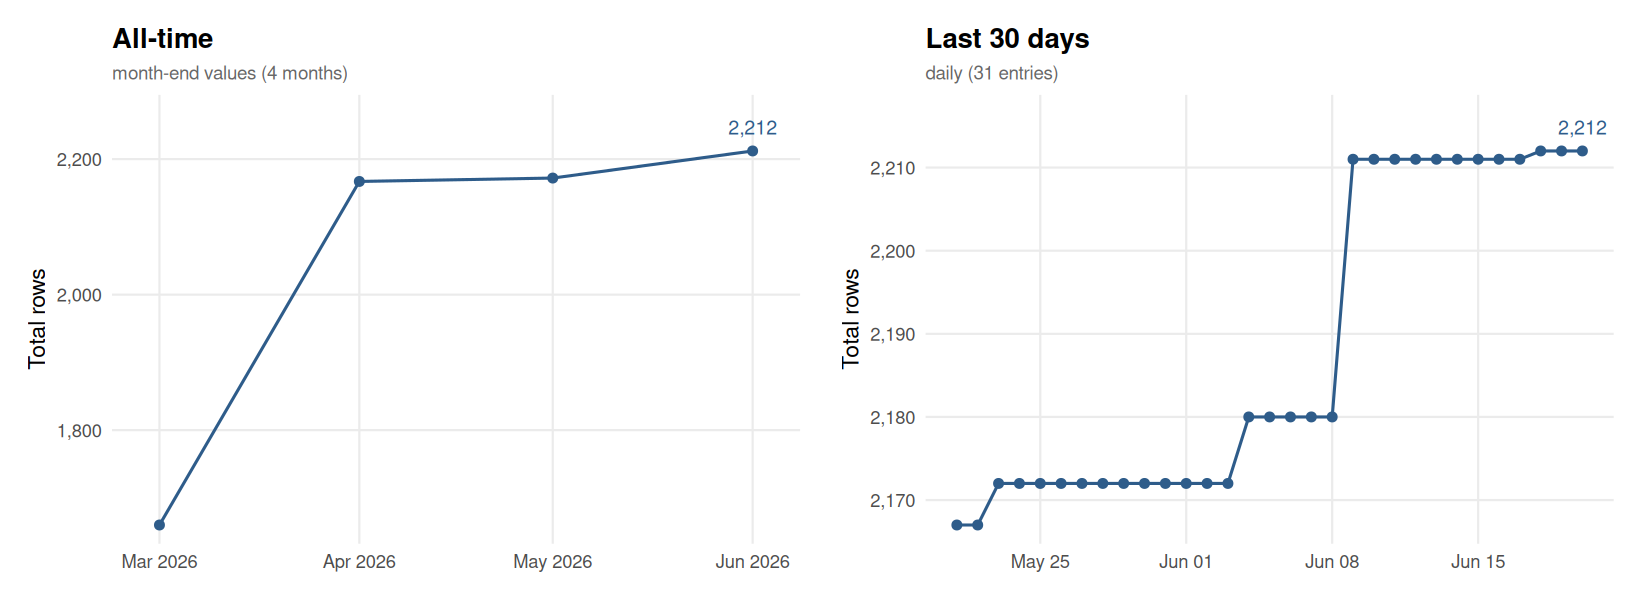
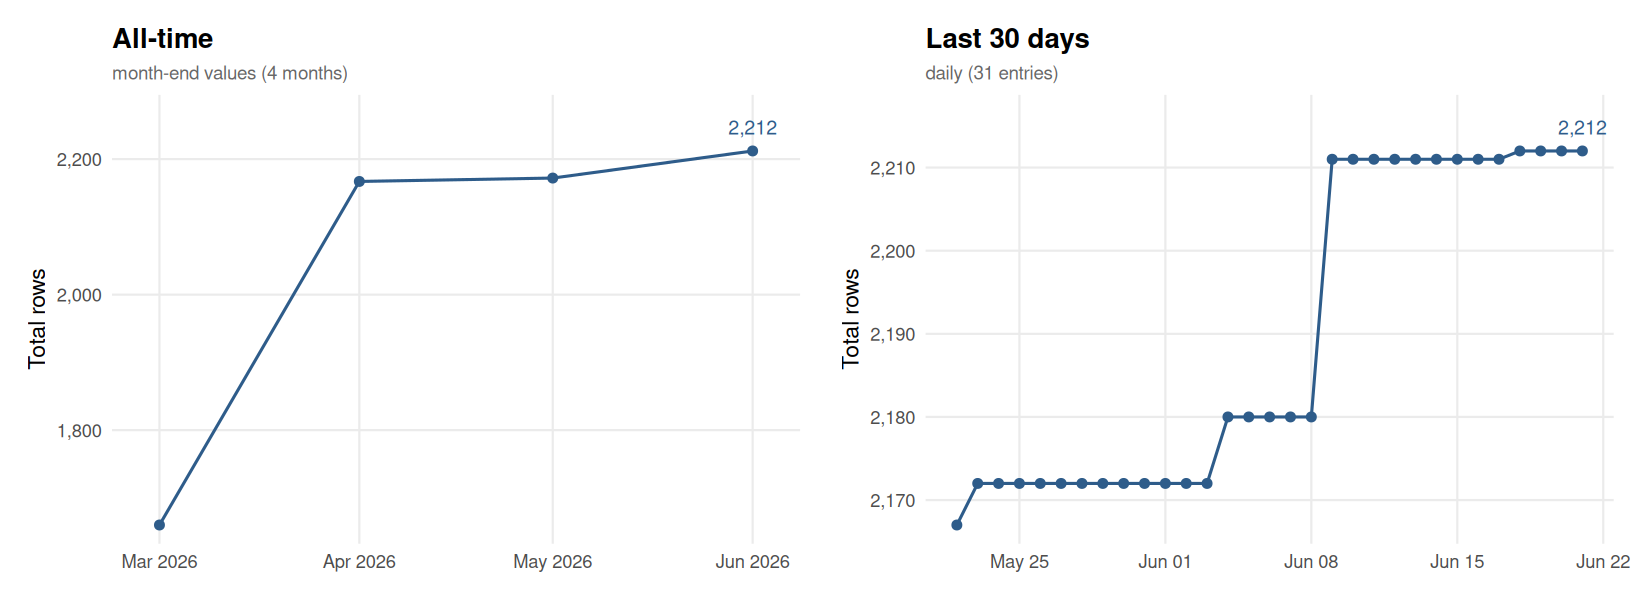
Update flora.csv [automated]

diff --git a/README.md b/README.md
@@ -438,14 +438,15 @@ For API issues:
 This chart is automatically updated after each pipeline run, showing the size of `output/flora.csv` over time.
 
 <!-- FLORA_UPDATE_LOG_START -->
-> **Latest (2026-06-20):** Total = 2,212 | Replications = 2,203 | Reproductions = 9
+> **Latest (2026-06-21):** Total = 2,212 | Replications = 2,203 | Reproductions = 9
 
 ![FLoRA dataset size over time](output/flora_history.png)
 
-<details><summary>Full history (93 entries)</summary>
+<details><summary>Full history (94 entries)</summary>
 
 | Date | Total | Replications | Reproductions |
 |------|------:|-------------:|--------------:|
+| 2026-06-21 | 2212 | 2203 | 9 |
 | 2026-06-20 | 2212 | 2203 | 9 |
 | 2026-06-19 | 2212 | 2203 | 9 |
 | 2026-06-18 | 2212 | 2203 | 9 |
